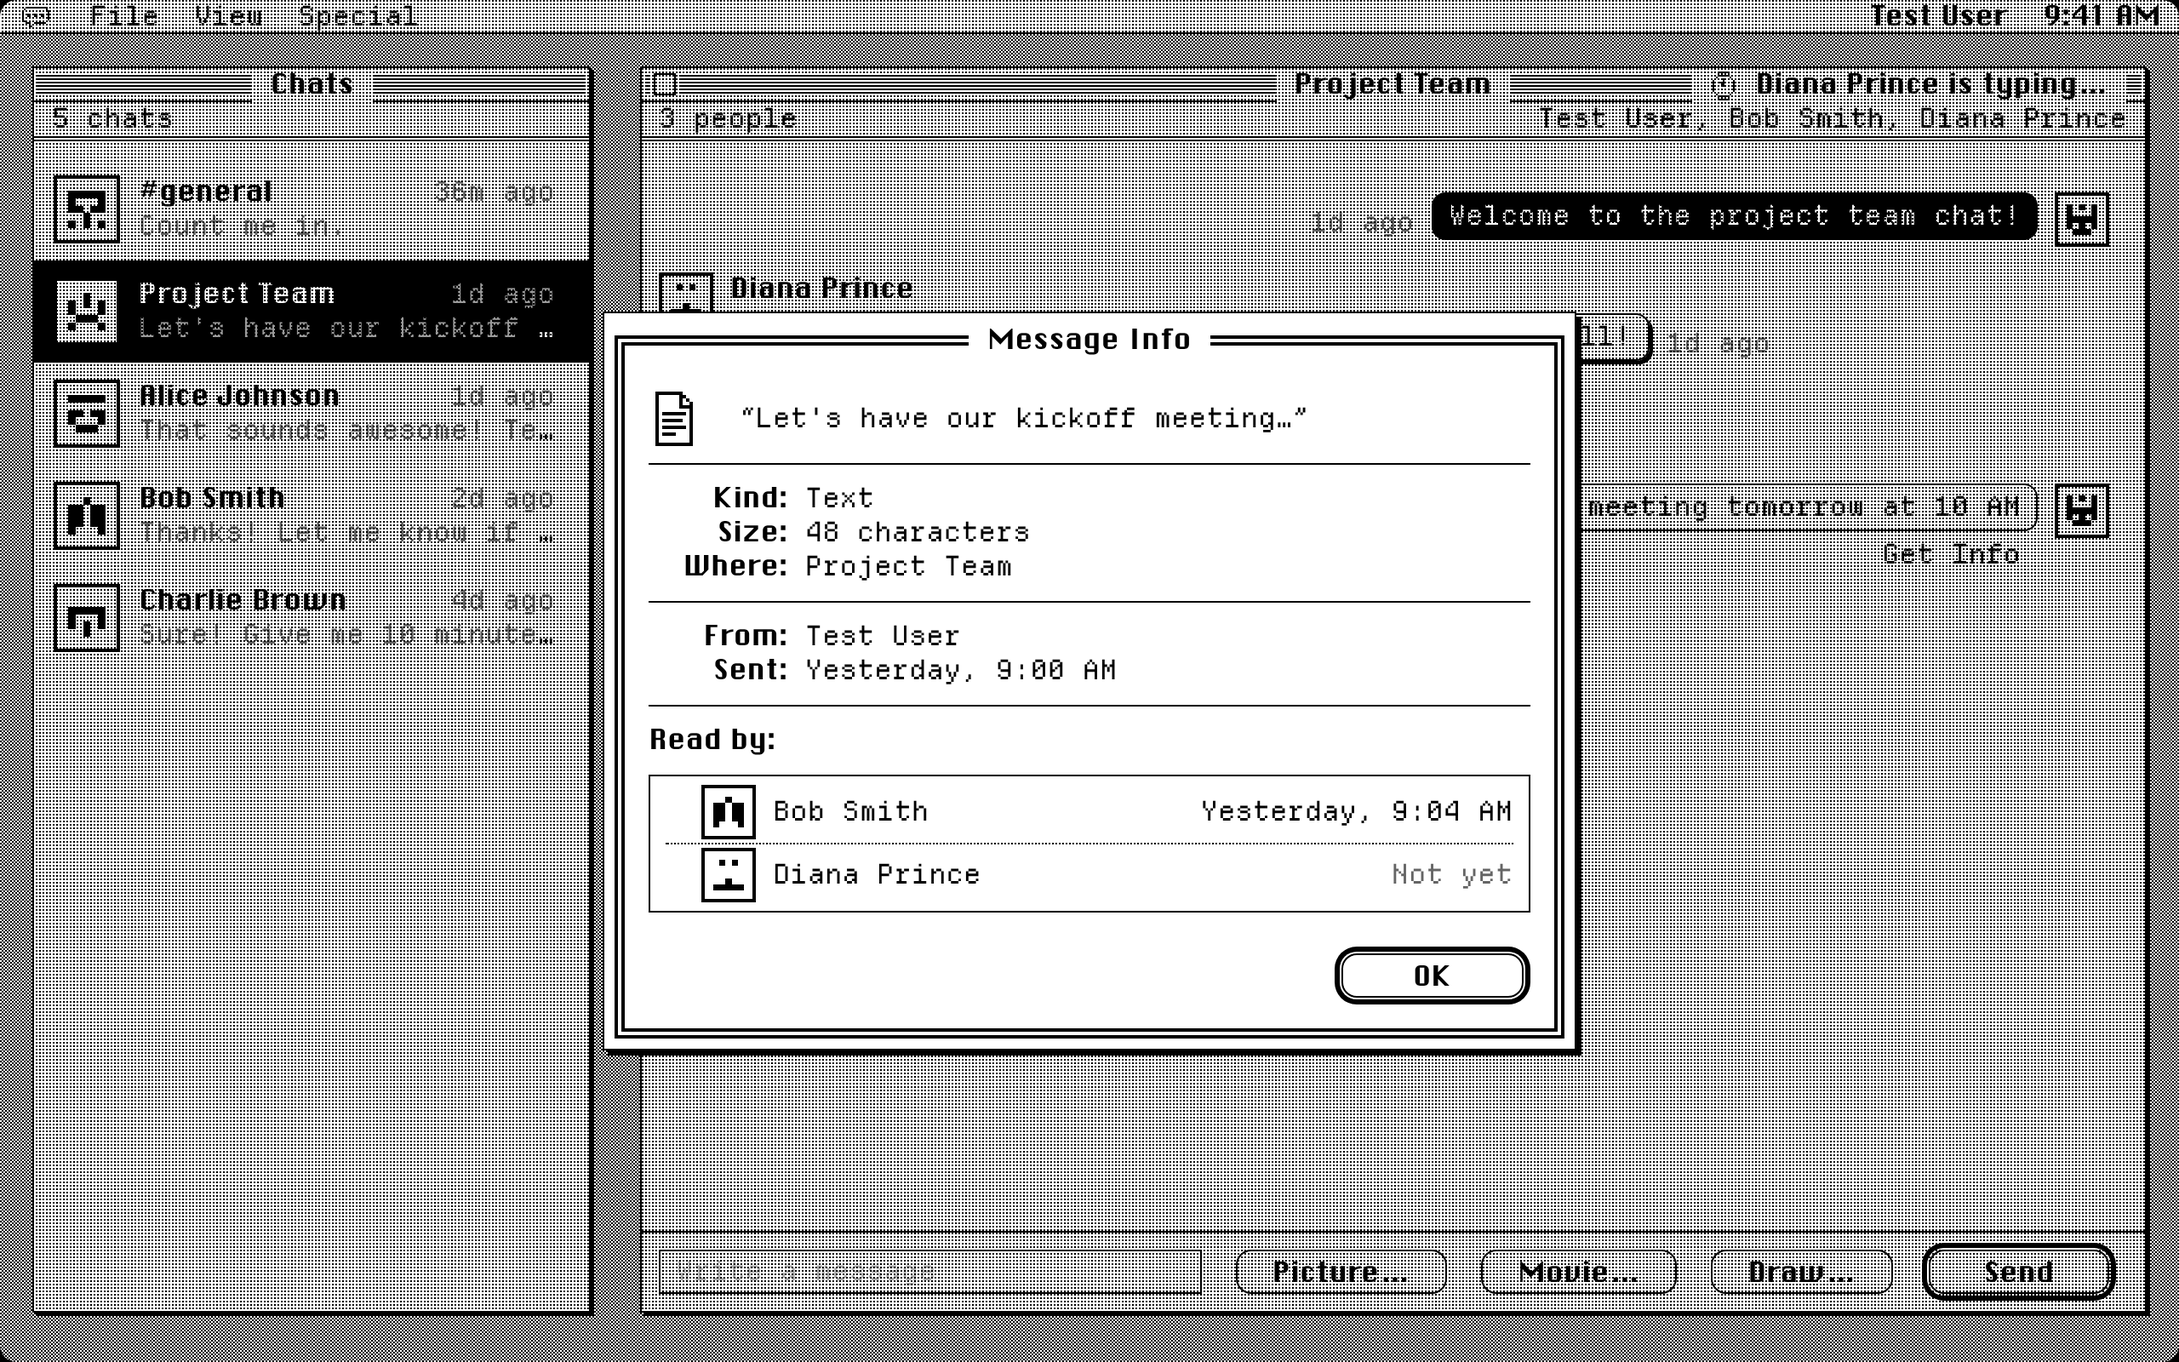
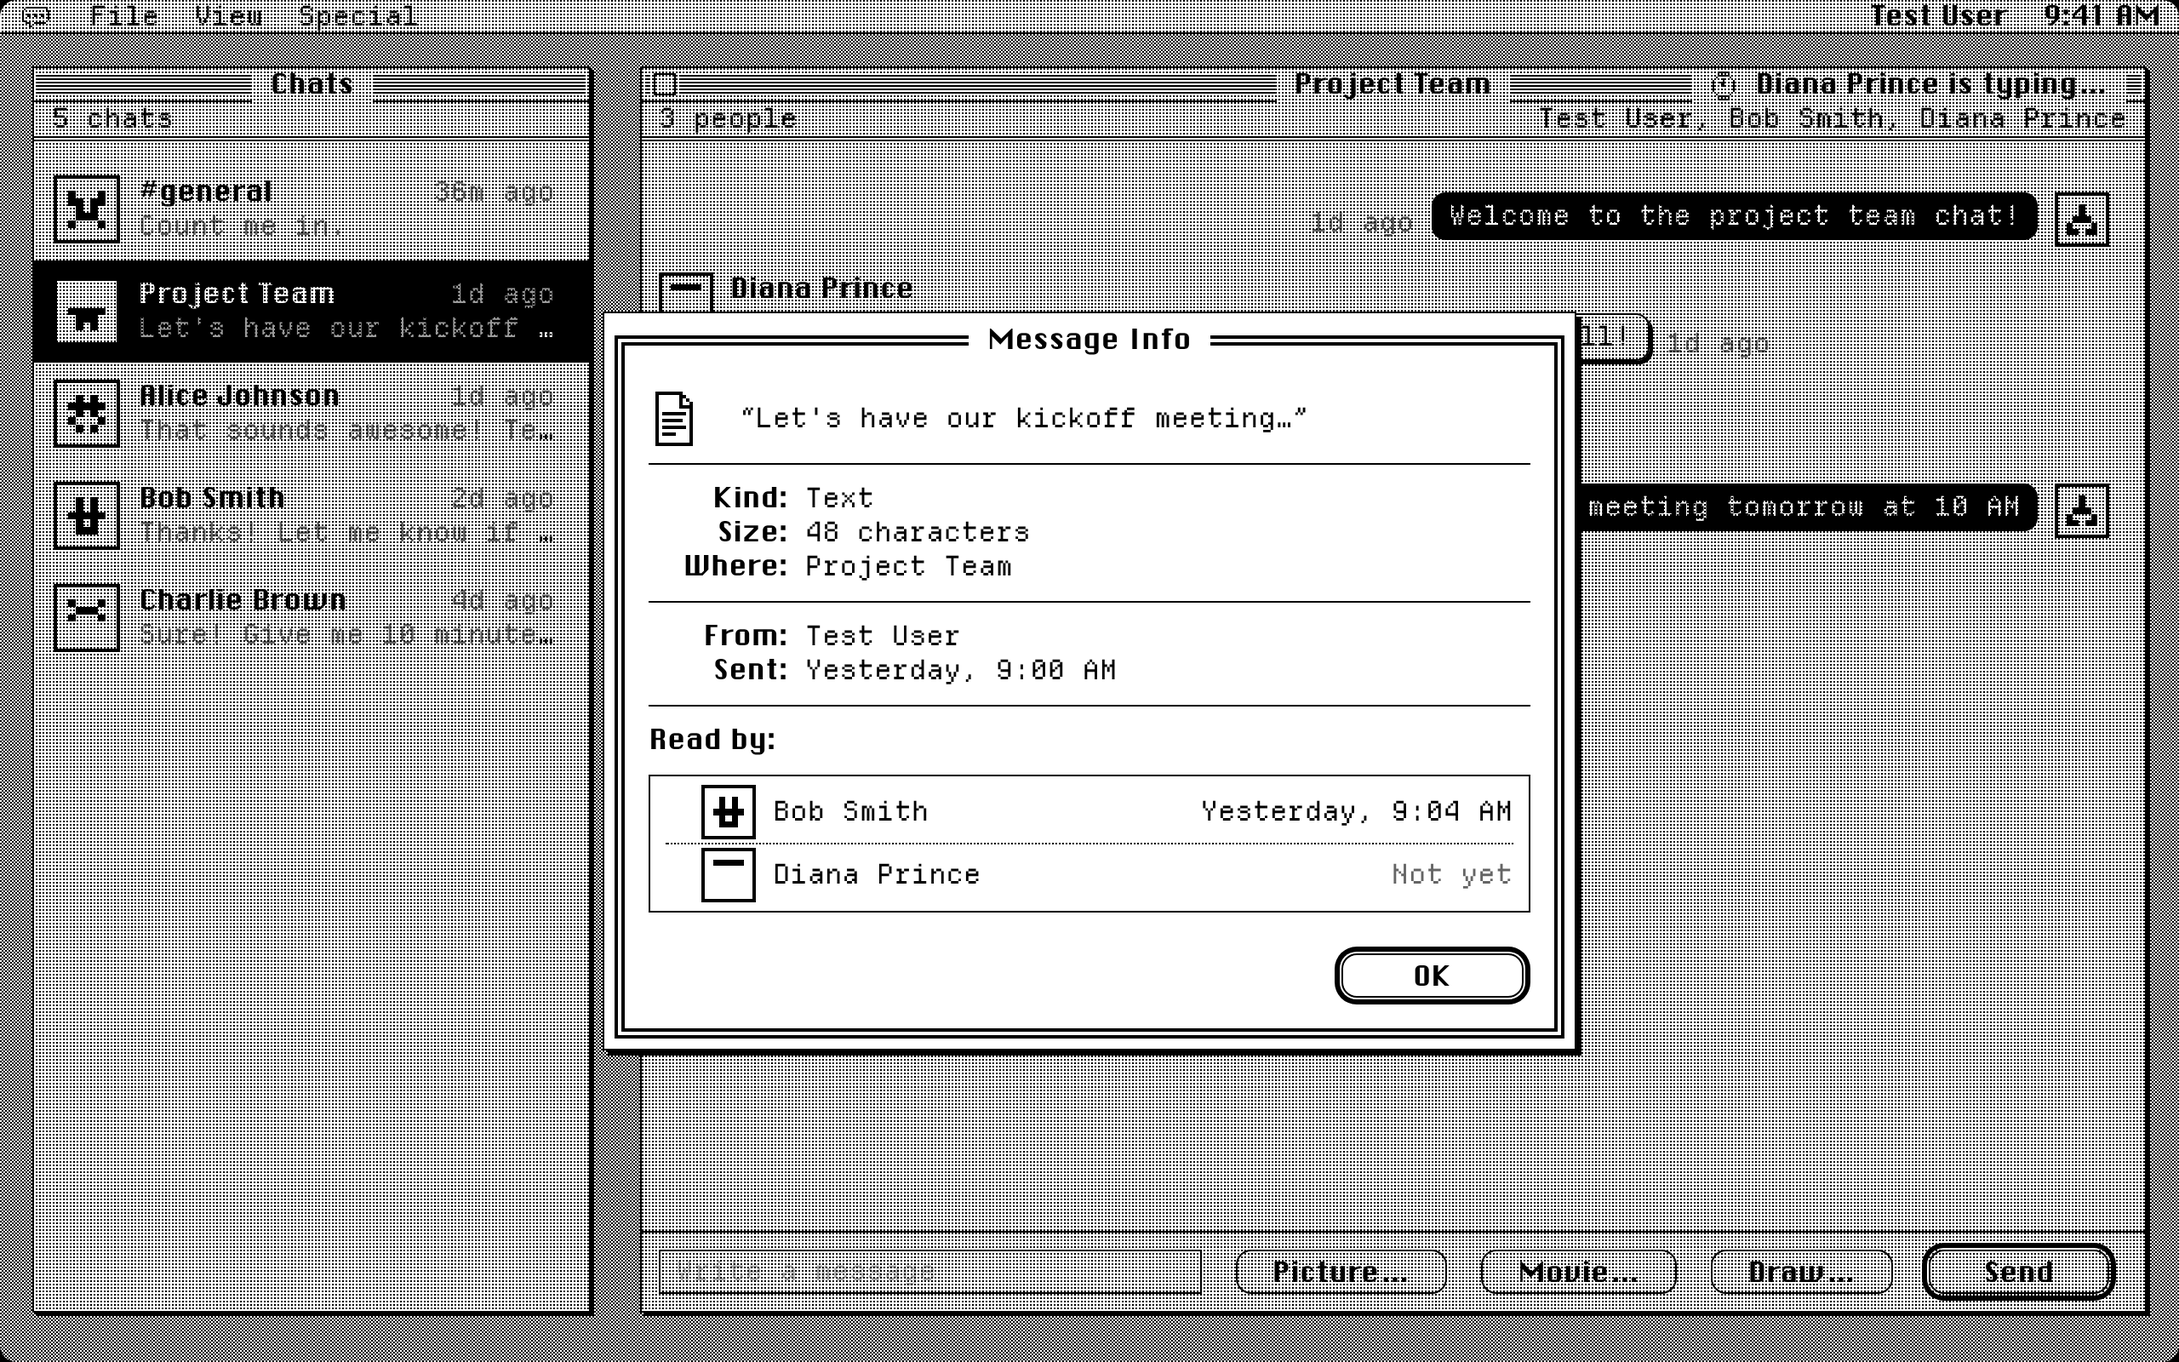
Open Get Info with a click on the message
No more selecting first and then File → Get Info, ⌃I, a double-click or
the button under it: a click or tap on a message opens Get Info. A link
in it still just opens, and dragging over its words still selects them.
The bubble inverts while it's pressed, as a Mac button does.

Claude-Session: https://claude.ai/code/session_01PS3qgzPm9JogXFZosB2Tpc

diff --git a/apps/frontend/src/app/components/chat/MessageBubble.tsx b/apps/frontend/src/app/components/chat/MessageBubble.tsx
@@ -32,11 +32,7 @@ interface MessageBubbleProps {
   onDrawOnIt?: (picture: WirePicture) => void;
   /** Opens the paint window over a movie; offered under each one. */
   onDrawOnMovie?: (movie: WireMovie) => void;
-  /** Picked out, as Finder picks out an icon: inverted, with Get Info under it. */
-  selected?: boolean;
-  /** A click picks it out. */
-  onSelect?: () => void;
-  /** Opens Get Info: a double-click, or the button under it once selected. */
+  /** Opens Get Info: a click or tap on the bubble. */
   onGetInfo?: () => void;
 }
 
@@ -48,8 +44,6 @@ export function MessageBubble({
   showName,
   onDrawOnIt,
   onDrawOnMovie,
-  selected = false,
-  onSelect,
   onGetInfo,
 }: MessageBubbleProps) {
   const Bubble = isCurrentUser ? MessageViewer : Message;
@@ -77,13 +71,13 @@ export function MessageBubble({
         <div className={styles.line}>
           <div
             className={styles.pick}
-            data-selected={selected || undefined}
+            data-pressable={onGetInfo ? true : undefined}
             onClick={(e) => {
-              // Picked out, not let go of by the click landing on the list.
-              e.stopPropagation();
-              onSelect?.();
+              // A link opens itself, and dragging over the words selects them.
+              if ((e.target as Element).closest('a')) return;
+              if (window.getSelection()?.toString()) return;
+              onGetInfo?.();
             }}
-            onDoubleClick={onGetInfo}
           >
             <Bubble>
               {picture && <MessagePicture picture={picture} />}
@@ -123,9 +117,7 @@ export function MessageBubble({
           )}
         </div>
         {/* Under the bubble, not in it: the viewer's bubbles are inverted. */}
-        {((picture && onDrawOnIt) ||
-          (movie && onDrawOnMovie) ||
-          (selected && onGetInfo)) && (
+        {((picture && onDrawOnIt) || (movie && onDrawOnMovie)) && (
           <div className={styles.under}>
             {picture && onDrawOnIt && (
               <ActionButton onClick={() => onDrawOnIt(picture)}>
@@ -136,9 +128,6 @@ export function MessageBubble({
               <ActionButton onClick={() => onDrawOnMovie(movie)}>
                 Draw on It
               </ActionButton>
-            )}
-            {selected && onGetInfo && (
-              <ActionButton onClick={onGetInfo}>Get Info</ActionButton>
             )}
           </div>
         )}

diff --git a/apps/frontend/src/app/pages/chat.tsx b/apps/frontend/src/app/pages/chat.tsx
@@ -1,4 +1,4 @@
-import { useEffect, useRef, useState } from 'react';
+import { useEffect, useRef } from 'react';
 import { useMutation, useQuery } from '@apollo/client/react';
 import { gql } from '../../lib/__generated__';
 import { ChatKind } from '../../lib/__generated__/graphql';
@@ -113,25 +113,7 @@ export function Chat() {
     onTyping: typists.started,
   });
 
-  // The message picked out in the open chat, for Get Info. Another chat's
-  // selection is no selection.
-  const [selection, setSelection] = useState<{
-    chatId: string;
-    messageId: string;
-  } | null>(null);
-  const selectedMessageId =
-    selection && selection.chatId === chatId ? selection.messageId : undefined;
-  const selectMessage = (messageId: string | null) =>
-    setSelection(chatId && messageId ? { chatId, messageId } : null);
   const getInfo = (messageId: string) => open(GetInfoDialog, { messageId });
-  const getSelectedInfo = selectedMessageId
-    ? () => getInfo(selectedMessageId)
-    : undefined;
-  useHotkeys('ctrl+i', () => getSelectedInfo?.(), {
-    enabled: !!getSelectedInfo,
-    enableOnFormTags: true,
-    preventDefault: true,
-  });
 
   const { data: chatData } = useQuery(GET_CHAT_DATA, {
     variables: { chatId: chatId ?? '' },
@@ -173,8 +155,6 @@ export function Chat() {
       onClose={closeChat}
       onAddPeople={addPeople}
       typists={typists}
-      selectedMessageId={selectedMessageId}
-      onSelectMessage={selectMessage}
       onGetInfo={getInfo}
     />
   ) : (
@@ -200,7 +180,6 @@ export function Chat() {
         onProfile={() => open(ProfileDialog, {})}
         onAddPeople={addPeople}
         onCloseChat={chatId ? closeChat : undefined}
-        onGetInfo={getSelectedInfo}
         onLeaveChannel={leaveOpenChannel}
         onInstall={install}
       />

diff --git a/apps/frontend/src/app/components/chat/MessageList.tsx b/apps/frontend/src/app/components/chat/MessageList.tsx
@@ -46,10 +46,7 @@ interface MessageListProps {
   showNames: boolean;
   onDrawOnIt?: (picture: WirePicture) => void;
   onDrawOnMovie?: (movie: WireMovie) => void;
-  /** The message picked out with a click, if any. */
-  selectedMessageId?: string;
-  /** Picks out a message, or none when the click was on nothing. */
-  onSelectMessage?: (messageId: string | null) => void;
+  /** Opens Get Info on a message: a click on it. */
   onGetInfo?: (messageId: string) => void;
 }
 
@@ -59,8 +56,6 @@ export function MessageList({
   showNames,
   onDrawOnIt,
   onDrawOnMovie,
-  selectedMessageId,
-  onSelectMessage,
   onGetInfo,
 }: MessageListProps) {
   const messagesEndRef = useRef<HTMLDivElement>(null);
@@ -109,17 +104,7 @@ export function MessageList({
   }
 
   return (
-    <div
-      className={styles.root}
-      role="log"
-      aria-label="Messages"
-      // A click on nothing in particular lets go of the selected message.
-      onClick={(e) => {
-        if (!(e.target as Element).closest('button, a')) {
-          onSelectMessage?.(null);
-        }
-      }}
-    >
+    <div className={styles.root} role="log" aria-label="Messages">
       {messages.map((message, index) => (
         <MessageBubble
           key={message.id}
@@ -129,8 +114,6 @@ export function MessageList({
           showName={showNames}
           onDrawOnIt={onDrawOnIt}
           onDrawOnMovie={onDrawOnMovie}
-          selected={message.id === selectedMessageId}
-          onSelect={onSelectMessage && (() => onSelectMessage(message.id))}
           onGetInfo={onGetInfo && (() => onGetInfo(message.id))}
         />
       ))}

diff --git a/apps/e2e/tests/get-info.spec.ts b/apps/e2e/tests/get-info.spec.ts
@@ -1,11 +1,5 @@
 import { expect, test } from '@playwright/test';
-import {
-  anotherPerson,
-  chatWindow,
-  chatsWindow,
-  chooseMenu,
-  signIn,
-} from './support';
+import { anotherPerson, chatWindow, chatsWindow, signIn } from './support';
 
 test('Get Info on a message says who has read it, and when', async ({
   page,
@@ -23,9 +17,8 @@ test('Get Info on a message says who has read it, and when', async ({
     .getByText('Did the slides come through?');
   await expect(bubble).toBeVisible();
 
-  // Picked out with a click, then File → Get Info.
+  // A click on the message opens it.
   await bubble.click();
-  await chooseMenu(page, 'File', 'Get Info');
   const info = page.getByRole('dialog', { name: 'Message Info' });
   await expect(info.getByText('“Did the slides come through?”')).toBeVisible();
   await expect(info.getByText('Text', { exact: true })).toBeVisible();
@@ -50,8 +43,7 @@ test('Get Info on a message says who has read it, and when', async ({
   ).toBeVisible();
   await marked;
 
-  // Still selected: the button under it opens Get Info too.
-  await chat.getByRole('button', { name: 'Get Info' }).click();
+  await bubble.click();
   await expect(readers.getByRole('listitem')).toHaveText(
     /Test User\s*Today, \d/
   );

diff --git a/apps/frontend/src/app/components/AppNavigation.tsx b/apps/frontend/src/app/components/AppNavigation.tsx
@@ -26,8 +26,6 @@ interface AppNavigationProps {
   onAddPeople?: () => void;
   /** Present while a chat is open. */
   onCloseChat?: () => void;
-  /** Present while a message is selected. */
-  onGetInfo?: () => void;
   /** Present while a channel is open. */
   onLeaveChannel?: () => void;
   /** Present while the browser offers to install Msgr. */
@@ -45,7 +43,6 @@ export function AppNavigation({
   onProfile,
   onAddPeople,
   onCloseChat,
-  onGetInfo,
   onLeaveChannel,
   onInstall,
 }: AppNavigationProps) {
@@ -72,9 +69,6 @@ export function AppNavigation({
                 : []),
               ...(onCloseChat
                 ? [{ label: 'Close Chat', onClick: onCloseChat }]
-                : []),
-              ...(onGetInfo
-                ? [{ label: 'Get Info', shortcut: '⌃I', onClick: onGetInfo }]
                 : []),
               ...(onLeaveChannel
                 ? [{ label: 'Leave Channel', onClick: onLeaveChannel }]

diff --git a/apps/frontend/src/app/components/chat/ChatWindow.tsx b/apps/frontend/src/app/components/chat/ChatWindow.tsx
@@ -53,9 +53,7 @@ interface ChatWindowProps {
   onAddPeople?: () => void;
   /** Who is writing where, for the title bar. */
   typists: Typists;
-  /** The message picked out with a click, if any. */
-  selectedMessageId?: string;
-  onSelectMessage: (messageId: string | null) => void;
+  /** Opens Get Info on a message, when it's clicked. */
   onGetInfo: (messageId: string) => void;
 }
 
@@ -66,8 +64,6 @@ export function ChatWindow({
   onClose,
   onAddPeople,
   typists,
-  selectedMessageId,
-  onSelectMessage,
   onGetInfo,
 }: ChatWindowProps) {
   const { data, loading } = useQuery(GET_CHAT_DATA, {
@@ -191,8 +187,6 @@ export function ChatWindow({
           showNames={!!chat && chat.kind !== ChatKind.Direct}
           onDrawOnIt={drawOn}
           onDrawOnMovie={drawOnMovie}
-          selectedMessageId={selectedMessageId}
-          onSelectMessage={onSelectMessage}
           onGetInfo={onGetInfo}
         />
         <MessageInput

diff --git a/apps/frontend/src/skin.css b/apps/frontend/src/skin.css
@@ -406,14 +406,14 @@ a:focus {
   color: var(--paper);
 }
 
-/* A selected message is inverted, as Finder inverts a selected icon: theirs
-   goes solid, yours goes hollow. MessageBubble marks it. */
-:root [data-selected] .srcl-Message__bubble {
+/* A message inverts while it's pressed, as a Mac button does, on its way to
+   Get Info: theirs goes solid, yours goes hollow. MessageBubble marks it. */
+:root [data-pressable]:active .srcl-Message__bubble {
   background: var(--ink);
   color: var(--paper);
 }
 
-:root [data-selected] .srcl-MessageViewer__bubble {
+:root [data-pressable]:active .srcl-MessageViewer__bubble {
   background: var(--paper);
   color: var(--ink);
   box-shadow: inset 0 0 0 1px var(--ink);

diff --git a/apps/e2e/screenshots/readme.spec.ts b/apps/e2e/screenshots/readme.spec.ts
@@ -143,10 +143,6 @@ test('someone typing, and Get Info on a message', async ({ browser }) => {
     .getByRole('log', { name: 'Messages' })
     .getByText('kickoff meeting tomorrow')
     .click();
-  await menuBar(page)
-    .getByRole('button', { name: 'File', exact: true })
-    .click();
-  await page.getByRole('menuitem', { name: 'Get Info' }).click();
   const info = page.getByRole('dialog', { name: 'Message Info' });
   await expect(info.getByText('Not yet')).toBeVisible();
   await capture(page, 'get-info.png');

diff --git a/apps/frontend/src/app/components/chat/MessageBubble.module.css b/apps/frontend/src/app/components/chat/MessageBubble.module.css
@@ -94,13 +94,16 @@ canvas + .content {
   margin-top: 4px;
 }
 
-/* What a click picks out; skin.css inverts it once it's selected. */
+/* A click opens Get Info; skin.css inverts the bubble while it's pressed. */
 .pick {
   min-width: 0;
-  cursor: default;
 }
 
-/* Draw on It and Get Info, side by side under the bubble. */
+.pick[data-pressable] {
+  cursor: pointer;
+}
+
+/* Under the bubble: Draw on It. */
 .under {
   display: flex;
   flex-wrap: wrap;

diff --git a/CLAUDE.md b/CLAUDE.md
@@ -102,7 +102,7 @@ apps/frontend/src/
 - **Movies loop like GIFs**, with nothing to press. Every movie on the page steps together on `useMovieTick`, one timer at 8 frames a second that stands still while the page is hidden or the viewer prefers reduced motion; it's no clock, so it isn't `useClock`. A movie shows exactly as a picture does (`MessagePicture.module.css`). What's drawn over one is a `Drawing` (ink and where) kept apart until it's sent, then drawn into every frame (`drawnOver`).
 - **One clock.** `useClock` is the page's only "now": the menu bar and every "5m ago" read it (`formatTime(date, now)` has no clock of its own), and it re-reads the device's time on waking, when timers have been paused. Typing notices aren't times on screen: they expire on `useTypists`' own timer, since the clock ticks only on the minute.
 - **Typing** shows in the chat window's title bar (`MacWindow`'s `status`, across the stripes from the close box): the classic wristwatch, stepping on `useMovieTick` and still when movies are, and "Ana is typing…". Too narrow for both, it takes the title's place. The composer says so every few seconds while there's text (`useSayTyping`), and the writer's message ends it at once.
-- **Get Info and reads.** A click selects a message (inverted, as Finder selects an icon, by `[data-selected]` in `skin.css`); File → Get Info, ⌃I, a double-click or the button under it opens `GetInfoDialog`. A chat open on a visible page is read up to its newest message (`useReading`, the same visibility rule as `useWatching`). Get Info polls while it's open; reads aren't live.
+- **Get Info and reads.** A click or tap on a message opens `GetInfoDialog` (not on a link, nor after dragging over its words); the bubble inverts while it's pressed, by `[data-pressable]` in `skin.css`. A chat open on a visible page is read up to its newest message (`useReading`, the same visibility rule as `useWatching`). Get Info polls while it's open; reads aren't live.
 - **Notifications come by Web Push**, open or not ([ADR 0006](docs/adr/0006-web-push-for-notifications.md)). `useNotifications` turns them on and off, and re-registers the browser for whoever is signed in on every visit. `useWatching` tells the server which chat is on screen, so that chat doesn't notify. The page never shows a notification itself.
 - **Session changes** (sign in, sign up, log out) go through `useSessionChange`, which clears Apollo's cache before navigating. Everything cached, down to `me: null`, belongs to the previous viewer; without the reset, signing in after being redirected to `/login` bounces straight back there.
 - **Dialogs** go through Sacred's modal stack: `useModals().open(Component, props)`.

diff --git a/README.md b/README.md
@@ -26,7 +26,7 @@
 - **Direct chats, groups and `#channels`.** Start a chat with anyone from **File → New Chat…** or <kbd>Ctrl</kbd>&nbsp;<kbd>K</kbd>. Make a channel with **File → New Channel…** and bring people in with **Add People…**, or join one from **File → Join Channel…** or by typing `/join #name` in the message box.
 - **Live.** Messages arrive the moment they're sent, and the chat list reorders itself.
 - **The wristwatch while someone types.** While someone writes to you, the chat window's title bar shows the classic Macintosh watch, its hand going round, and "Ana is typing…". It goes the moment their message arrives.
-- **Get Info on any message.** Click a message to select it, then **File → Get Info**, <kbd>Ctrl</kbd>&nbsp;<kbd>I</kbd> or a double-click: what it is and how big, where and when it was sent, and who has read it and when. A chat counts as read while it's open on your screen.
+- **Get Info on any message.** Click or tap a message: what it is and how big, where and when it was sent, and who has read it and when. A chat counts as read while it's open on your screen.
 - **Pixel emoji.** Every emoji is redrawn as black-and-white pixel art in the theme's ink, and a message of just emoji shows them big.
 - **MacPaint drawings.** **Draw…** opens a paint window with a pencil, brush, paint bucket, eraser and eight patterns, and attaches the picture to your message. **Draw on It** opens any picture in the chat to add to it.
 - **Photos, the 1984 way.** **Picture…**, pasting or dropping a photo dithers it to black and white on your device, up to 320 pixels a side, to send with or without text. Only the dithered picture leaves your device, in a few kilobytes.
